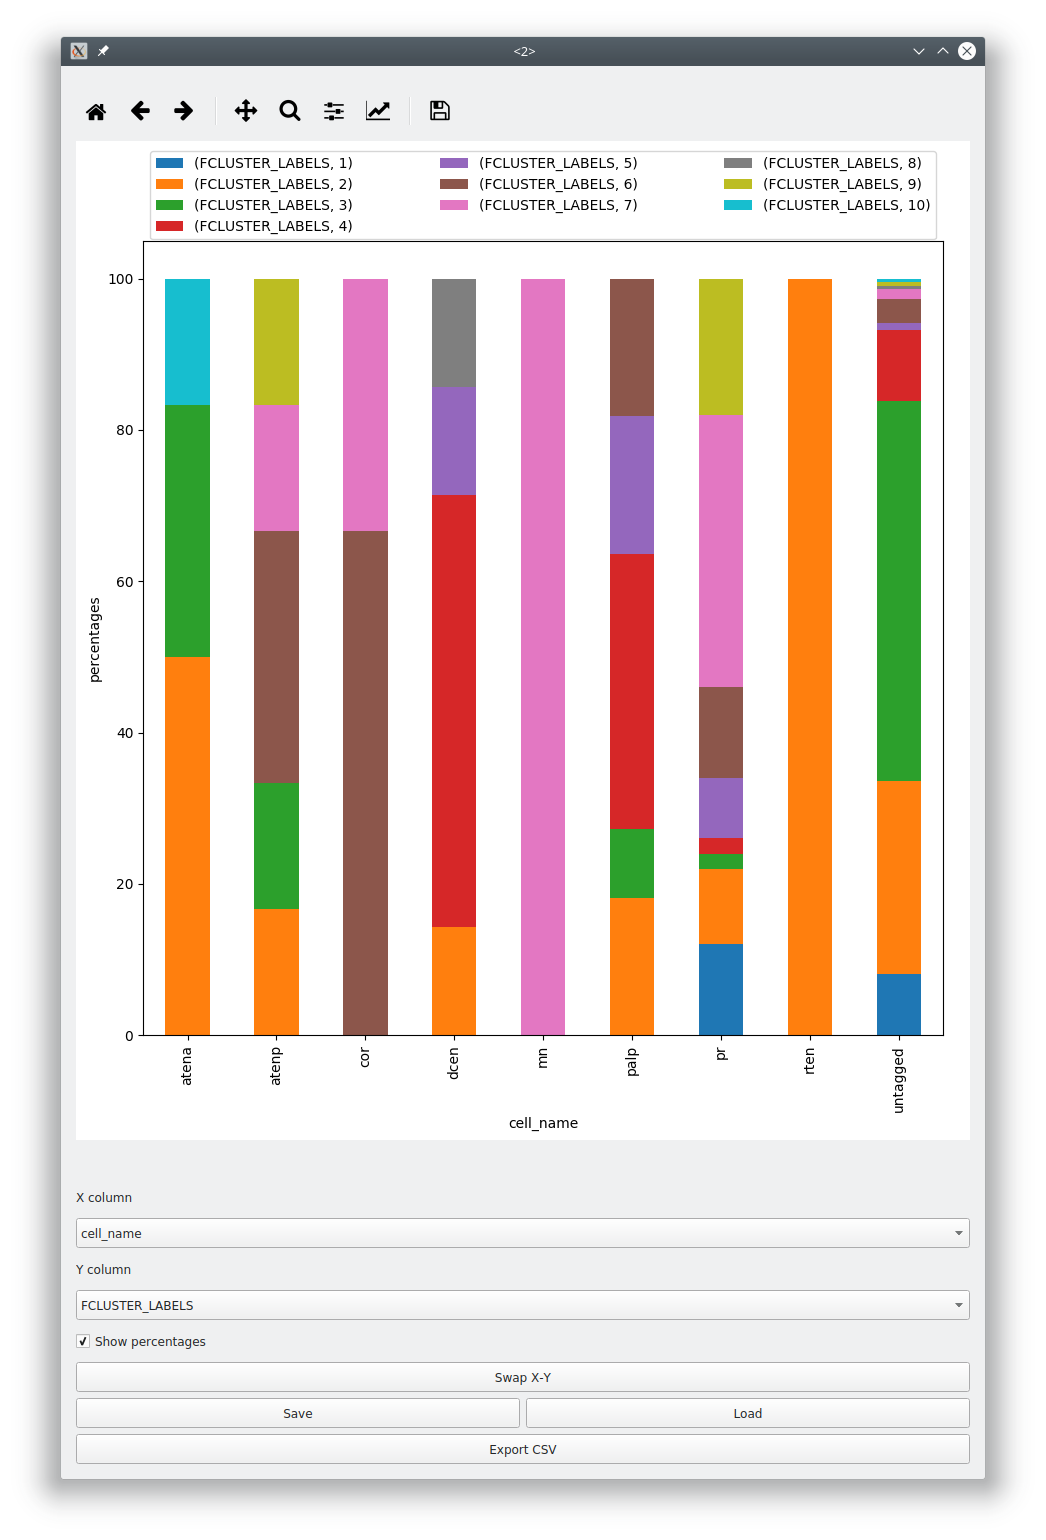
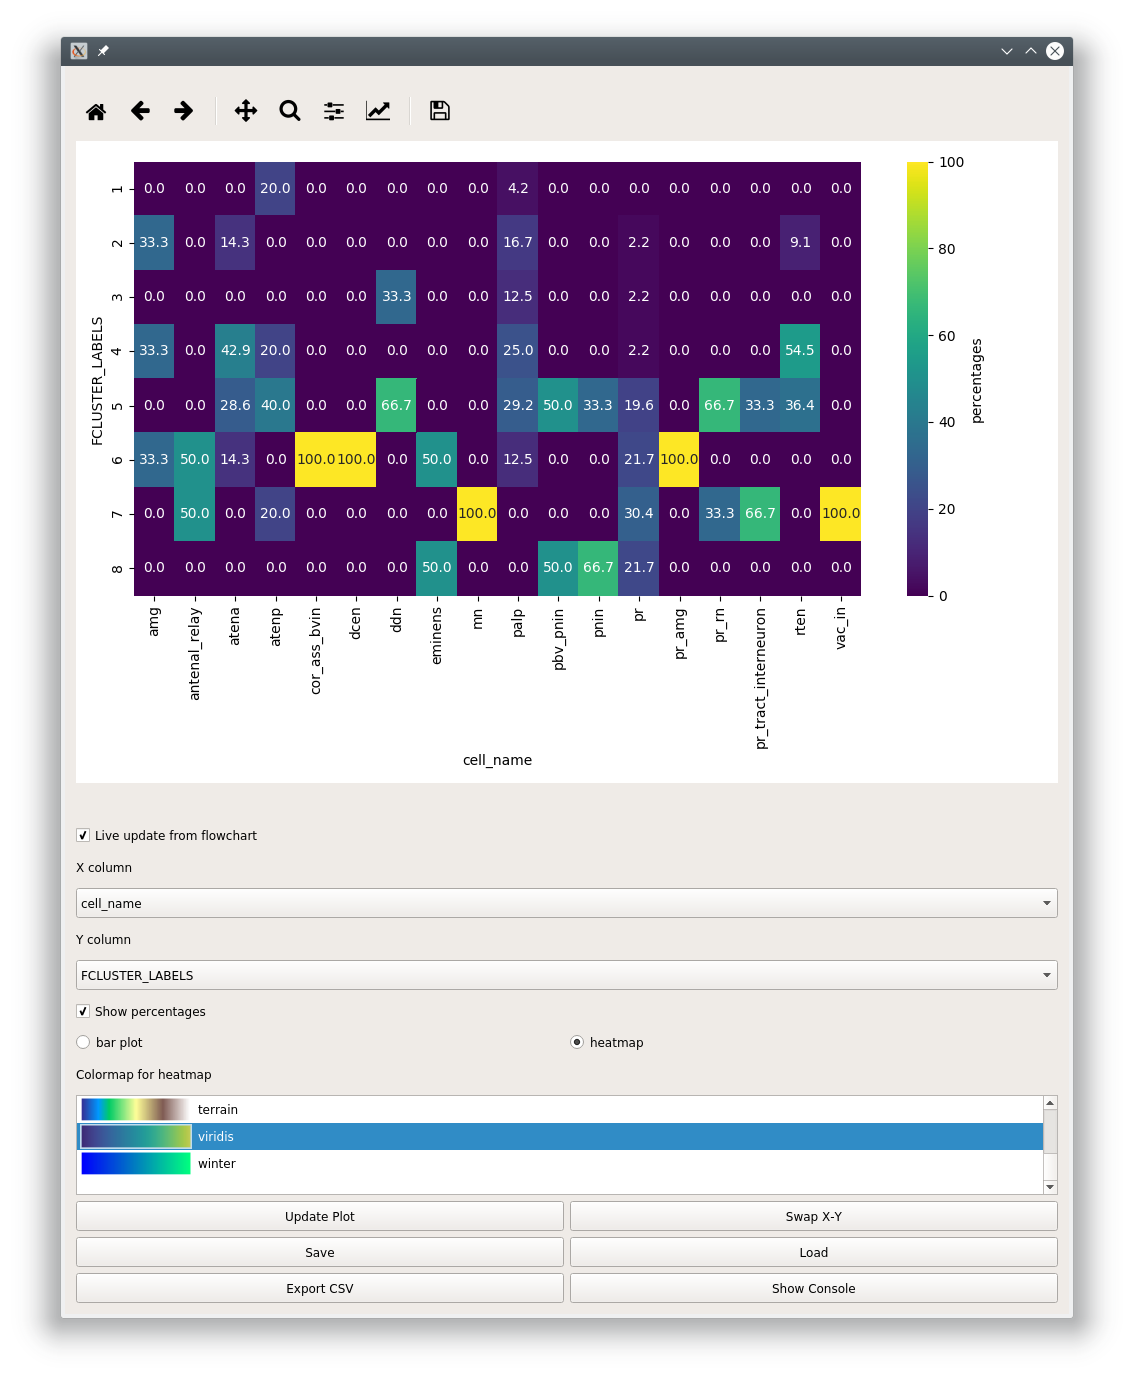
doc sources. Update nodes.rst, proportions.png, and 3 more files...

diff --git a/source/user_guides/flowchart/nodes.rst b/source/user_guides/flowchart/nodes.rst
@@ -3,7 +3,6 @@
 Nodes
 *****
 
-
 .. _nodes_Data:
 
 Data
@@ -17,6 +16,8 @@ LoadFile
 ^^^^^^^^
 
 	Loads a save Transmission file. If you have a Project open it will automatically set the project path according to the open project. Otherwise you must specify the project path. You can specify a different project path to the project that is currently open (this is untested, weird things could happen). You should not merge Transmissions originating from different projects.
+	
+	.. note:: You can also load a saved Transmission file by dragging & dropping it into the Flowchart area. It will create a LoadFile node with the name of the dropped.
 	
 	========== 	=================
 	Terminal		Description
@@ -788,7 +789,7 @@ ExtractStim
 	===================    ========================================
 	Output Data Column     Description
 	===================    ========================================
-	STIM_TYPE              Stimulus type, corresponds to your :ref:`ProjectConfig`
+	STIM_TYPE              Stimulus type, corresponds to your :ref:`Project Config <project-configuration>`
 	STIMULUS               Name of the stimulus.
 	_EXTRACT_STIM          The extracted array based on the parameters.
 	uuid_stim		  UUID for the extracted stimulus period
@@ -948,27 +949,30 @@ LDA
 
     Perform Linear Discriminant Analysis. Uses `sklearn.discriminant_analysis.LinearDiscriminantAnalysis <https://scikit-learn.org/stable/modules/generated/sklearn.discriminant_analysis.LinearDiscriminantAnalysis.html>`_
     
-    =========   ==========================================================
-    Terminal    Description
-    =========   ==========================================================
-    In          Input Transmission
-    T           | Transmission with Transformed data and decision function. Output columns outlined below:
-                | **_LDA_TRANSFORM:** The transformed data, can be visualized with a :ref:`Scatter Plot <plot_ScatterPlot>` for instance
-                | **_LDA_DFUNC:** Decision function (confidence scores). Can be visualized with a :ref:`Heatmap <plot_Heatmap>`
-    coef        | Transmission with LDA Coefficients. Output columns outlined below:
-                | **classes:** The categorical labels that were trained against
-                | **_COEF:** LDA Coefficients (weight vectors) for the classes. Can be visualized with a :ref:`Heatmap <plot_Heatmap>`
-                
-    means       Transmission with LDA Means. Output columns outlined below:
-    
-                | **classes:** The categorical labels that were trained against
-                | **_MEANS:** LDA means for the classes. Can be visualized with a :ref:`Heatmap <plot_Heatmap>`
-    =========   ==========================================================
+    ============    ==========================================================
+    Terminal        Description
+    ============    ==========================================================
+    train_data      Input Transmission containing the training data
+    predict         Input Transmission containing data on which to predict
+    T               | Transmission with Transformed data and decision function. Output columns outlined below:
+                    | **_LDA_TRANSFORM:** The transformed data, can be visualized with a :ref:`Scatter Plot <plot_ScatterPlot>` for instance
+                    | **_LDA_DFUNC:** Decision function (confidence scores). Can be visualized with a :ref:`Heatmap <plot_Heatmap>`
+    coef            | Transmission with LDA Coefficients. Output columns outlined below:
+                    | **classes:** The categorical labels that were trained against
+                    | **_COEF:** LDA Coefficients (weight vectors) for the classes. Can be visualized with a :ref:`Heatmap <plot_Heatmap>`
+    means           | Transmission with LDA Means. Output columns outlined below:
+                    | **classes:** The categorical labels that were trained against
+                    | **_MEANS:** LDA means for the classes. Can be visualized with a :ref:`Heatmap <plot_Heatmap>`
+    predicted       | Transmission containing predicted class labels for the data.
+                    | The class labels are placed in a column named **LDA_PREDICTED_LABELS**
+                    | The names of the class labels correspond to the labels from the training labels
+                    | *optional*
+    ============    ==========================================================
     
     =============== ===================================================================
     Parameter       Description
     =============== ===================================================================
-    data_columns    Single or multiple data columns that contain the input features.
+    train_data      Single or multiple data columns that contain the input features.
     labels          Data column containing categorical labels to train to
     solver          | *svd:* Singular Value Decomposition
                     | *lsqr:* Least Squares solution
@@ -978,6 +982,9 @@ LDA
     n_components    Number of components to output
     tol             Tolereance threshold exponent. The used value is 10^<tol>
     score           Displays mean score of the classification (read only)
+    predict_on      | Single or multiple data columns that contain the data that are used for predicting on
+                    | Usually the same name as the data column(s) used for the training data.
+                    | *optional*
     =============== ===================================================================
 
     

diff --git a/source/user_guides/plots/proportions.rst b/source/user_guides/plots/proportions.rst
@@ -12,15 +12,19 @@ Compare proportions of categorical variables between different groups using bar 
 
 .. thumbnail:: ./proportions.png
 
-Parameters
-----------
-
-**X column:** DataFrame column containing the categorical labels used for grouping the data
-
-**Y column:** DataFrame column containing categoricals labels to plot proportions of counts/raw counts
-
-**Show percentages:** When unchecked shows raw counts
-
-**Swap X-Y:** Swap X & Y columns
-
-**Export CSV:** Export the data for the current plot as to a csv file.
+=================== ====================================================================================
+Parameter           Description
+=================== ====================================================================================
+X column            | DataFrame column containing the categorical labels used for grouping the data
+                    | Data in each X column sums to 100% if *Show percentages* is checked
+Y column            DataFrame column containing the categorical labels that are counted for each group
+Show percentages    When unchecked shows raw counts
+bar plot            Visualize as bar plots
+heatmap             Visualize as a heatmap
+Update Plot         Update plot
+Swap X-Y            Swap X & Y columns
+Save                :ref:`Save this plot as a ptrn file <save_ptrn>`
+Load                :ref:`Load from a ptrn file <save_ptrn>`
+Export CSV          Export the data for the current plot as to a csv file.
+Show Console        Show/hide the console
+=================== ====================================================================================

diff --git a/source/user_guides/viewer/modules/tiff_file.rst b/source/user_guides/viewer/modules/tiff_file.rst
@@ -5,7 +5,7 @@ To open a tiff file go to Modules -> Load Images -> Tiff files.
 
 .. note:: You can also use this module through the console and scripts. See :ref:`API_TiffModule`
 
-To open tiff files just click the “Select file” button and choose your file.
+To open tiff files just click the “Select file” button and choose your file. You can also drag and drop a tiff file.
 
 .. image:: ./2.png
 
